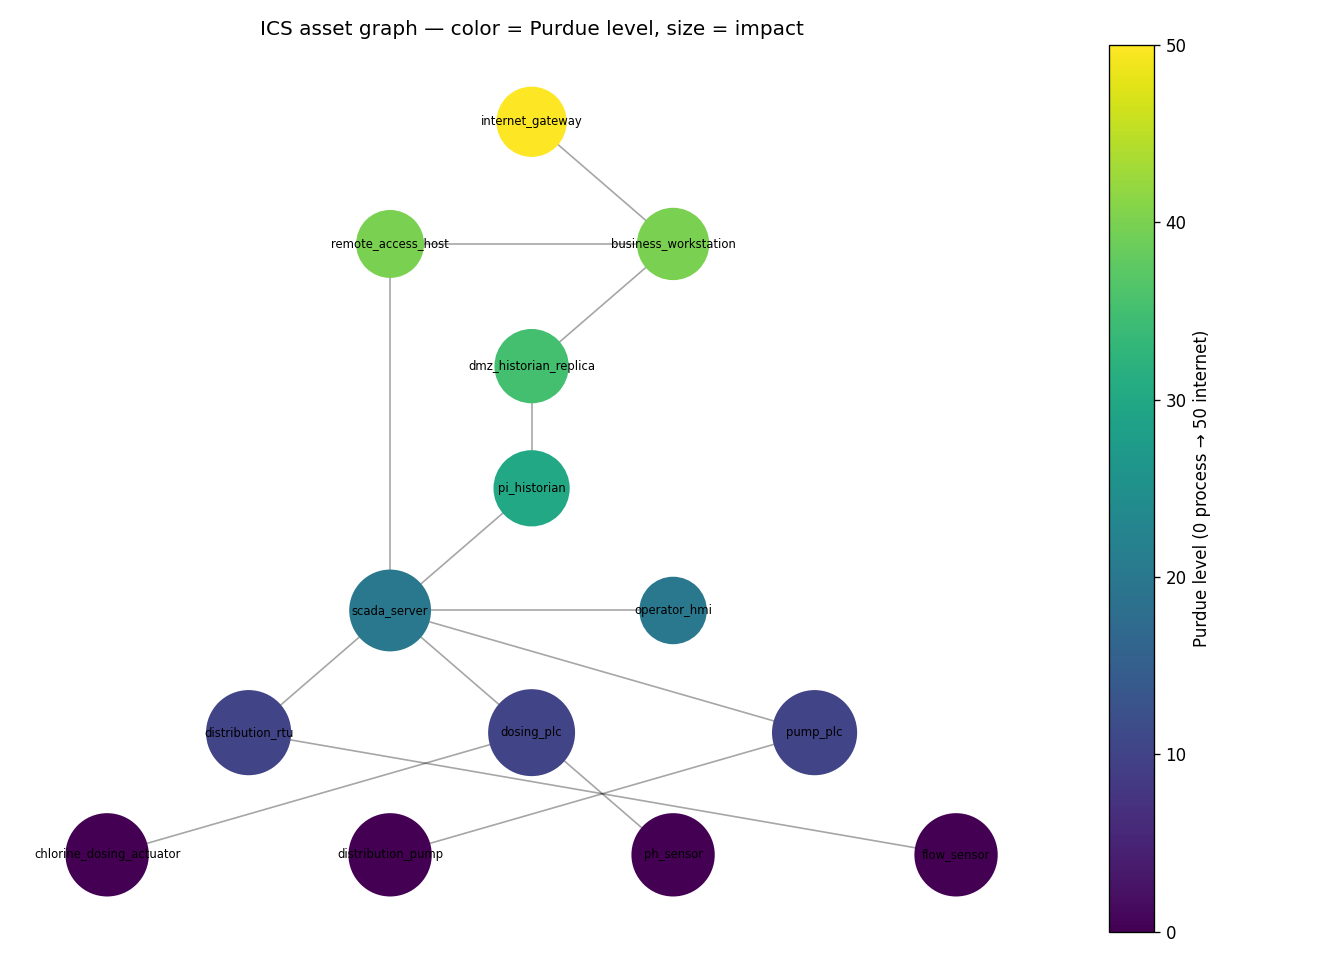
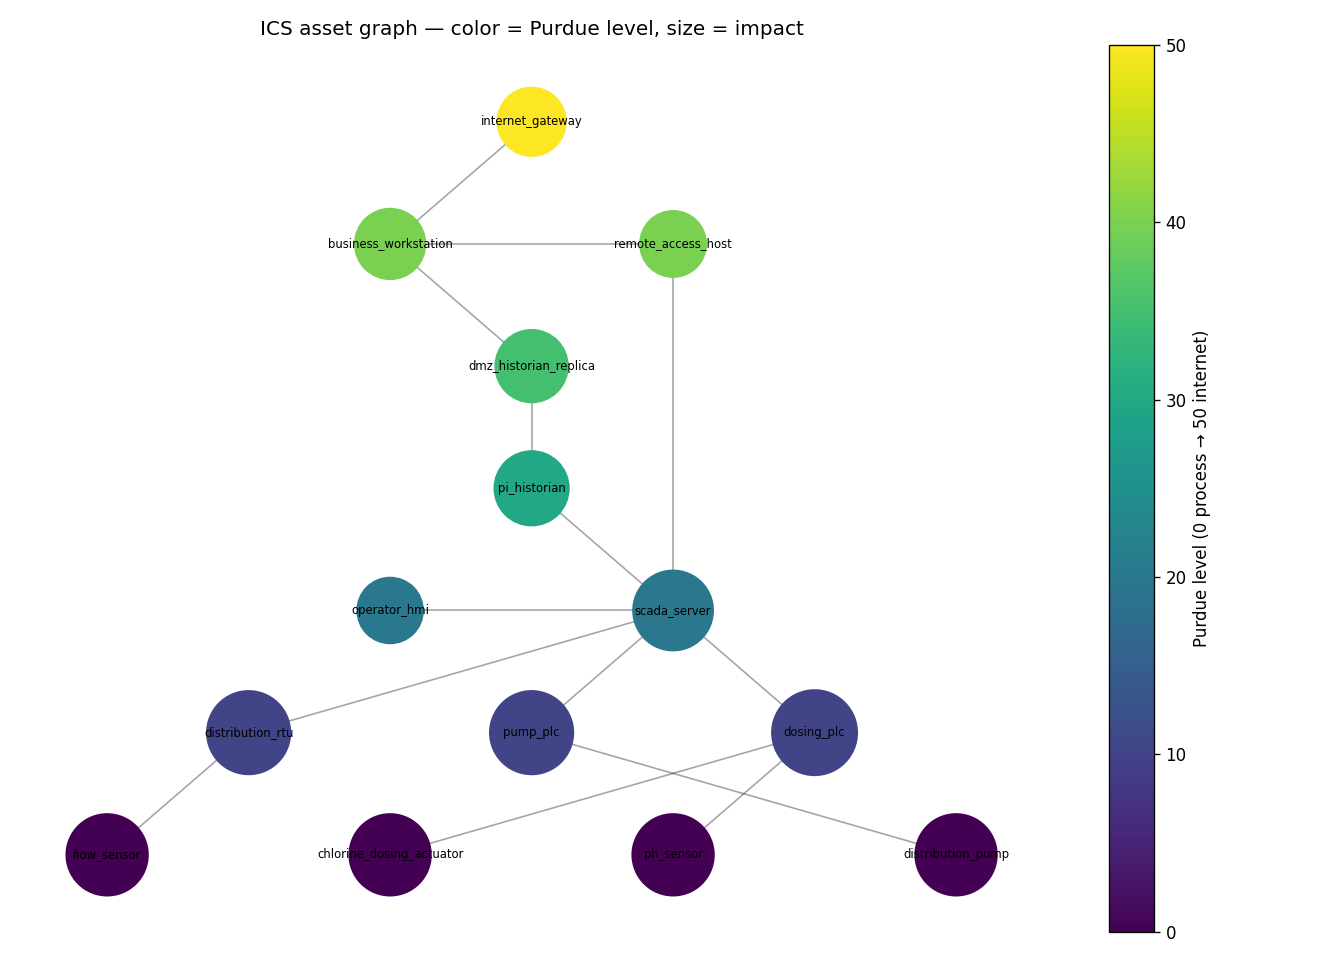
docs update

diff --git a/experiments/ablation_followup.py b/experiments/ablation_followup.py
@@ -86,7 +86,8 @@ def run() -> str:
     L.append("As a weighted likelihood factor, KEV changed no band or rank even for the asset "
              "carrying a KEV CVE (aggregate tau-b ~0.95). It was therefore **removed as a weight** "
              "and re-applied as a **band escalator** (actively-exploited → +1 band, per CISA "
-             "BOD 22-01). With the escalator OFF vs ON:\n")
+             "BOD 22-01; later extended to top-percentile EPSS — see data/risk_rubric.md). "
+             "With the escalator OFF vs ON:\n")
     L.append("| architecture | KEV asset | band off→on | rank off→on |")
     L.append("|---|---|---|---|")
     any_kev = False

diff --git a/data/README.md b/data/README.md
@@ -10,8 +10,8 @@ refreshed deliberately (see below); the rest are hand-authored.
 | `risk_rubric.md`              | Hand-authored. NIST SP 800-30 scoring rubric. |
 | `threat_trends.yaml`          | Curated, **cited**. Technique lists are a subset of MITRE's software mappings (regenerate the full lists with `python -m scripts.harvest_trends`); sources are MITRE's canonical references. Real campaigns only — never fabricate. |
 | `attack_ics.json`             | Downloaded — MITRE ATT&CK for ICS (STIX 2.0 JSON) from the MITRE CTI GitHub repo (gitignored). |
-| `cve_snapshot.json`           | Committed — per-product CVE snapshot (CPE-matched, KEV-flagged) used for offline briefings. Refresh with `python -m scripts.build_cve_snapshot`. |
-| `cache/`                      | Downloaded — cached NVD CPE/CVE + CISA KEV responses (gitignored). |
+| `cve_snapshot.json`           | Committed — per-product CVE snapshot (CPE-matched, version-filtered, KEV-flagged, EPSS-scored) used for offline briefings. Refresh with `python -m scripts.build_cve_snapshot`. |
+| `cache/`                      | Downloaded — cached NVD CPE/CVE, CISA KEV, and EPSS responses (gitignored). |
 
 ## Refresh procedure
 
@@ -23,6 +23,8 @@ refreshed deliberately (see below); the rest are hand-authored.
   responses cache under `data/cache/`; `scripts.build_cve_snapshot` distills the committed
   `cve_snapshot.json`.
 - **CISA KEV:** single downloadable JSON catalog; used to flag actively-exploited CVEs.
+- **EPSS:** the FIRST.org EPSS API (`fetch_epss`) returns a per-CVE exploitation probability
+  and percentile; the snapshot stores both, and the percentile drives the band escalator.
 
 ## References
 
@@ -30,3 +32,4 @@ refreshed deliberately (see below); the rest are hand-authored.
 - CISA ICS Advisories — https://www.cisa.gov/news-events/cybersecurity-advisories
 - CISA KEV Catalog — https://www.cisa.gov/known-exploited-vulnerabilities-catalog
 - NVD CVE API — https://nvd.nist.gov/developers/vulnerabilities
+- FIRST.org EPSS — https://www.first.org/epss/

diff --git a/experiments/ABLATION_FOLLOWUP.md b/experiments/ABLATION_FOLLOWUP.md
@@ -15,7 +15,7 @@ Two gaps left by the ablation in `validity.py`: segmentation was never ablated, 
 
 ## (B) The KEV factor: from inert weight to band escalator
 
-As a weighted likelihood factor, KEV changed no band or rank even for the asset carrying a KEV CVE (aggregate tau-b ~0.95). It was therefore **removed as a weight** and re-applied as a **band escalator** (actively-exploited → +1 band, per CISA BOD 22-01). With the escalator OFF vs ON:
+As a weighted likelihood factor, KEV changed no band or rank even for the asset carrying a KEV CVE (aggregate tau-b ~0.95). It was therefore **removed as a weight** and re-applied as a **band escalator** (actively-exploited → +1 band, per CISA BOD 22-01; later extended to top-percentile EPSS — see data/risk_rubric.md). With the escalator OFF vs ON:
 
 | architecture | KEV asset | band off→on | rank off→on |
 |---|---|---|---|